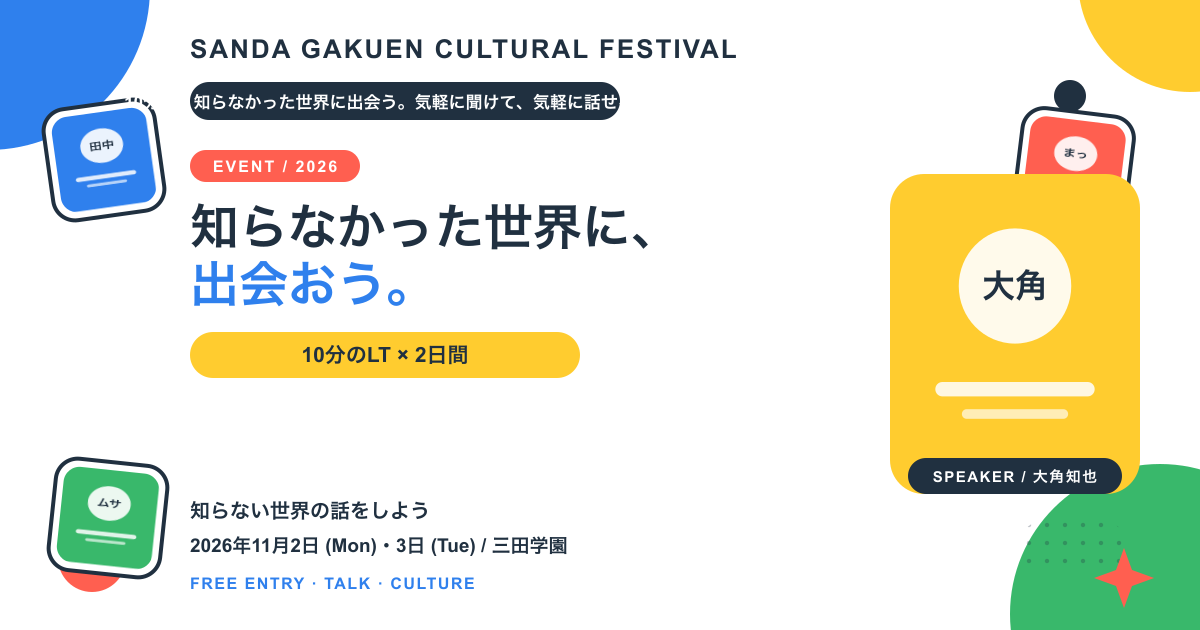
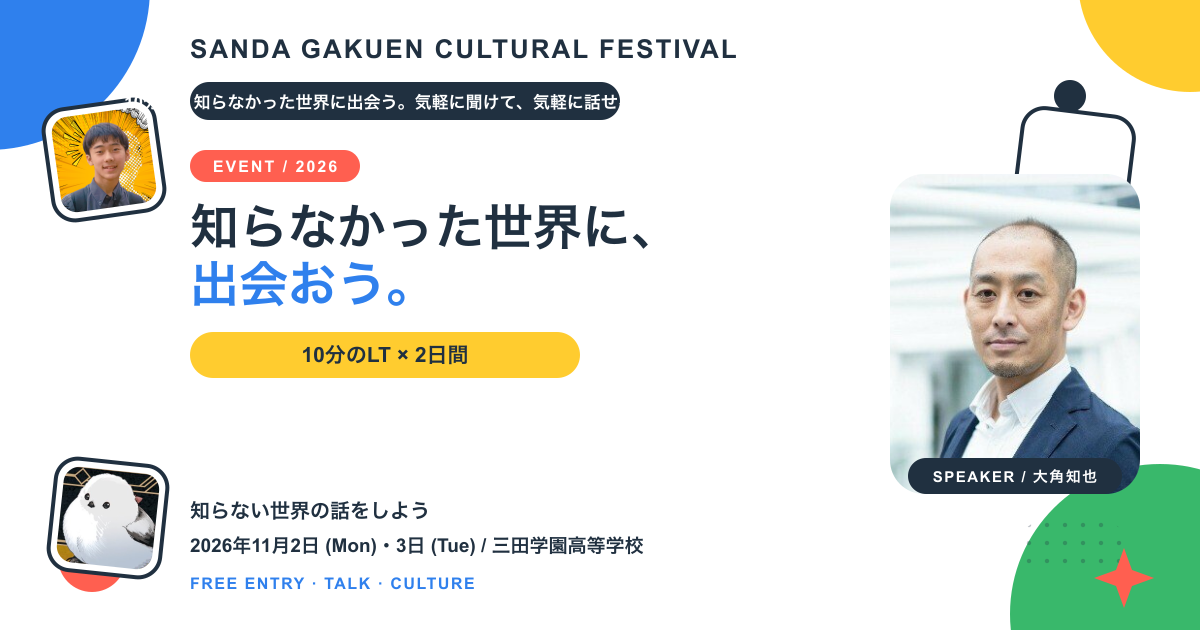
Refactor code structure for improved readability and maintainability

diff --git a/landing/src/data/sessions.ts b/landing/src/data/sessions.ts
@@ -11,39 +11,34 @@ export type Session = {
   detail: string
 }
 
+const tbd = (id: string, start: string, end: string, color: Session['color']): Session => ({
+  id, date: '2026-11-02', start, end, title: 'LT枠 TBD', speakerIds: [], category: 'talk', color,
+  summary: '登壇内容は決まり次第更新します。', detail: '登壇者と発表内容は決まり次第更新します。',
+})
+
 export const sessions: Session[] = [
-  {
-    id: 'opening-1102', date: '2026-11-02', start: '10:00', end: '10:10', title: 'オープニング', speakerIds: ['tanahiro2010'], category: 'talk', color: 'white',
-    summary: '知らない世界の話をしよう。イベントの楽しみ方を紹介します。', detail: 'イベントの趣旨と、2日間の過ごし方を短く紹介します。',
-  },
-  {
-    id: 'distributed-sns', date: '2026-11-02', start: '10:30', end: '10:40', title: '分散型SNSのすゝめ', speakerIds: ['macchatee'], category: 'talk', color: 'yellow',
-    summary: '内容は決まり次第更新します。', detail: '内容は決まり次第更新します。',
-  },
-  {
-    id: 'medical-world', date: '2026-11-02', start: '11:30', end: '11:40', title: '「誰かの役に立つ」を掛け合わせる仕事', speakerIds: ['osumi-tomoya'], category: 'talk', color: 'blue',
-    summary: '内容は決まり次第更新します。', detail: '内容は決まり次第更新します。',
-  },
-  {
-    id: 'novel-world', date: '2026-11-02', start: '12:00', end: '12:10', title: 'TBD', speakerIds: ['musashinofenaga'], category: 'talk', color: 'green',
-    summary: '内容は決まり次第更新します。', detail: '内容は決まり次第更新します。',
-  },
-  {
-    id: 'ai-werewolf-play', date: '2026-11-02', start: '13:00', end: '14:00', title: 'AI人狼を遊ぶ', speakerIds: ['tanahiro2010'], category: 'special', color: 'red',
-    summary: '参加者が実際にAI人狼をプレイします。', detail: '生成AIを使って作ったAI人狼を、参加者のみなさんに遊んでもらいます。',
-  },
-  {
-    id: 'ai-werewolf-making', date: '2026-11-02', start: '14:00', end: '15:00', title: 'AI人狼のつくり方', speakerIds: ['tanahiro2010'], category: 'special', color: 'red',
-    summary: 'PLAYの後に、HOW IT WAS MADEを見せます。', detail: 'ほとんどコードを書かず、生成AIにどこまでアプリを作らせられるか。その過程と内部の仕組みを紹介します。',
-  },
-  {
-    id: 'unknown-world', date: '2026-11-03', start: '11:00', end: '11:10', title: 'ITエンジニアとして生きていくために自分がやってきたノウハウをお伝えします', speakerIds: ['kojima-yusuke'], category: 'talk', color: 'yellow',
-    summary: '内容は決まり次第更新します。', detail: '内容は決まり次第更新します。',
-  },
-  {
-    id: 'web-world', date: '2026-11-03', start: '13:00', end: '13:10', title: 'インフラ（サーバー・ネットワーク）の何かを話します。', speakerIds: ['taktin'], category: 'talk', color: 'blue',
-    summary: '内容は決まり次第更新します。', detail: '内容は決まり次第更新します。',
-  },
+  { id: 'opening-1102', date: '2026-11-02', start: '09:30', end: '10:20', title: '準備兼オープニング', speakerIds: ['tanahiro2010'], category: 'talk', color: 'white', summary: '会場準備とイベントのオープニングです。', detail: '会場の準備をしながら、イベントの流れを紹介します。' },
+  { id: 'bokuchi', date: '2026-11-02', start: '10:20', end: '10:30', title: 'Bokuchiのすゝめ', speakerIds: ['tanahiro2010'], category: 'talk', color: 'yellow', summary: '田中博悠さんによる10分LTです。', detail: 'Bokuchiについて紹介します。' },
+  { id: 'okaz02-tbd', date: '2026-11-02', start: '10:30', end: '10:40', title: 'LT枠 TBD', speakerIds: ['okaz02'], category: 'talk', color: 'blue', summary: 'Okaz02さんによるLTです。', detail: '発表内容は決まり次第更新します。' },
+  { id: 'matlab-sports-engineering', date: '2026-11-02', start: '10:40', end: '10:50', title: 'MATLABを使ってスポーツエンジニアリング', speakerIds: ['ikkia-atsu'], category: 'talk', color: 'green', summary: 'MATLABとスポーツエンジニアリングのLTです。', detail: 'MATLABを使ったスポーツエンジニアリングについて紹介します。' },
+  tbd('tbd-1050', '10:50', '11:00', 'red'),
+  tbd('tbd-1100', '11:00', '11:10', 'yellow'),
+  tbd('tbd-1110', '11:10', '11:20', 'blue'),
+  tbd('tbd-1120', '11:20', '11:30', 'green'),
+  tbd('tbd-1130', '11:30', '11:40', 'red'),
+  { id: 'google-cloud-behind-scenes', date: '2026-11-02', start: '11:40', end: '12:00', title: 'Google Cloudの裏側（仮）', speakerIds: ['satoluxx'], category: 'talk', color: 'yellow', summary: 'なかむらさとるさんによるLTです。', detail: 'Google Cloudの裏側について紹介します。' },
+  tbd('tbd-1200', '12:00', '12:10', 'blue'),
+  tbd('tbd-1210', '12:10', '12:20', 'green'),
+  tbd('tbd-1220', '12:20', '12:30', 'red'),
+  tbd('tbd-1230', '12:30', '12:40', 'yellow'),
+  tbd('tbd-1240', '12:40', '12:50', 'blue'),
+  tbd('tbd-1250', '12:50', '13:00', 'green'),
+  { id: 'ai-werewolf-play', date: '2026-11-02', start: '13:00', end: '14:00', title: 'AI人狼を実際に遊んでみよう！', speakerIds: ['tanahiro2010'], category: 'special', color: 'red', summary: '参加者が実際にAI人狼をプレイします。', detail: '生成AIを使って作ったAI人狼を、参加者のみなさんに遊んでもらいます。' },
+  { id: 'ai-werewolf-making', date: '2026-11-02', start: '14:00', end: '15:00', title: 'AI人狼はどうやって作った？ ― 制作過程・仕組み解説', speakerIds: ['tanahiro2010'], category: 'special', color: 'red', summary: 'PLAYの後に、制作過程と仕組みを解説します。', detail: 'ほとんどコードを書かず、生成AIにどこまでアプリを作らせられるか。その過程と内部の仕組みを紹介します。' },
+  tbd('tbd-1500', '15:00', '15:10', 'yellow'),
+  { id: 'ai-era-technology', date: '2026-11-02', start: '15:10', end: '15:20', title: 'AI時代だからこそ技術にこだわってみないか？', speakerIds: ['taramanji'], category: 'talk', color: 'blue', summary: 'taramanjiさんによるLTです。', detail: '発表内容は決まり次第更新します。' },
+  { id: 'closing-1102', date: '2026-11-02', start: '15:20', end: '15:30', title: 'クロージング', speakerIds: ['tanahiro2010'], category: 'talk', color: 'green', summary: 'イベントの締めくくりです。', detail: 'イベントを振り返り、次の交流につなげます。' },
+  { id: 'social-1102', date: '2026-11-02', start: '15:30', end: '16:00', title: '雑談・交流タイム', speakerIds: [], category: 'break', color: 'white', summary: '発表の感想や興味のある分野を自由に話せます。', detail: '参加者同士でイベントの感想や興味のある分野を話す時間です。' },
 ]
 
 export const sessionDates = [

diff --git a/landing/src/data/speakers.ts b/landing/src/data/speakers.ts
@@ -86,6 +86,37 @@ export const speakers: Speaker[] = [
  Google Developers Expert(GCP)。
 バイクはアフリカツインとトライアンフ スラクストンを乗っております。`,
     online: false,
+  },
+  {
+    id: 'okaz02',
+    name: 'Okaz02',
+    handle: '0kaz02',
+    role: 'Speaker',
+    category: 'other',
+    bio: 'こんにちは！普段暇で、やりたいことを思いついたらなんでもやってます！',
+    icon: 'https://pbs.twimg.com/profile_images/2073344638078091264/OISMkcfw_400x400.jpg',
+    online: false,
+  },
+  {
+    id: 'ikkia-atsu',
+    name: '一気圧',
+    role: 'Speaker',
+    category: 'other',
+    bio: `やりたいことができる状況でやりたくないことを優先しなきゃ行けないことってありますよね。いつもその中で生きています`,
+    icon: '/images/speakers/ikkia-atsu.jpg',
+    online: false,
+  },
+  {
+    id: 'taramanji',
+    name: 'taramanji',
+    handle: 'JavaLangRuntime',
+    role: 'Engineer',
+    category: 'web',
+    bio: `締切駆動📷マン/SWE/XR研究者 
+立命館大学大学院M1・RM2C・クラスターメタ研RA・RCC・ CyberAgent・JINEN・888・
+CATechLounge・NxTEND戦略事業本部・TechSelect+メンター・運営STECH 
+GoCon TSKaigi kyoto.go biwako.go・りえ高生`,
+    online: false,
   }
 ]
 

diff --git a/landing/src/components/Cards.tsx b/landing/src/components/Cards.tsx
@@ -28,7 +28,7 @@ export const SessionCard = ({ session, compact = false }: { session: Session; co
     <a class="session-card-link" href={`/sessions/${session.id}`} data-session-id={session.id}>
       <div class="session-time"><time>{session.start}</time><span>—</span><time>{session.end}</time></div>
       <div class="session-card-content">
-        <div class="session-label">{session.category === 'special' ? 'SPECIAL' : '10 MIN TALK'}</div>
+        <div class="session-label">{session.category === 'special' ? 'SPECIAL' : session.category === 'break' ? 'BREAK' : '10 MIN TALK'}</div>
         <h3>{session.title}</h3>
         <p>{session.summary}</p>
         <div class="session-speakers">{session.speakerIds.map((id) => speakerById.get(id)?.name).filter(Boolean).join(' / ')}</div>

diff --git a/landing/src/data/event.ts b/landing/src/data/event.ts
@@ -8,11 +8,11 @@ export const event = {
     { label: '2日目', date: '2026年11月3日（火）' },
   ],
   dateLabel: '2026年11月2日（月）・3日（火）',
-  timeLabel: '10:00 — 16:00ごろ',
-  venue: '三田学園',
-  venueDetail: '中学校舎予定 / 教室はTBD',
+  timeLabel: '09:00 — 16:00',
+  venue: '三田学園高等学校',
+  venueDetail: '中学校舎 / 〒669-1535 兵庫県三田市南が丘2-13-65',
   fee: '無料',
-  capacity: '42名',
+  capacity: '30名（通常参加）',
   connpassUrl: 'https://gdgs.jp/sanda-lt-lp',
   streamUrl: null as string | null,
   organizer: '田中博悠 / tanahiro2010',
